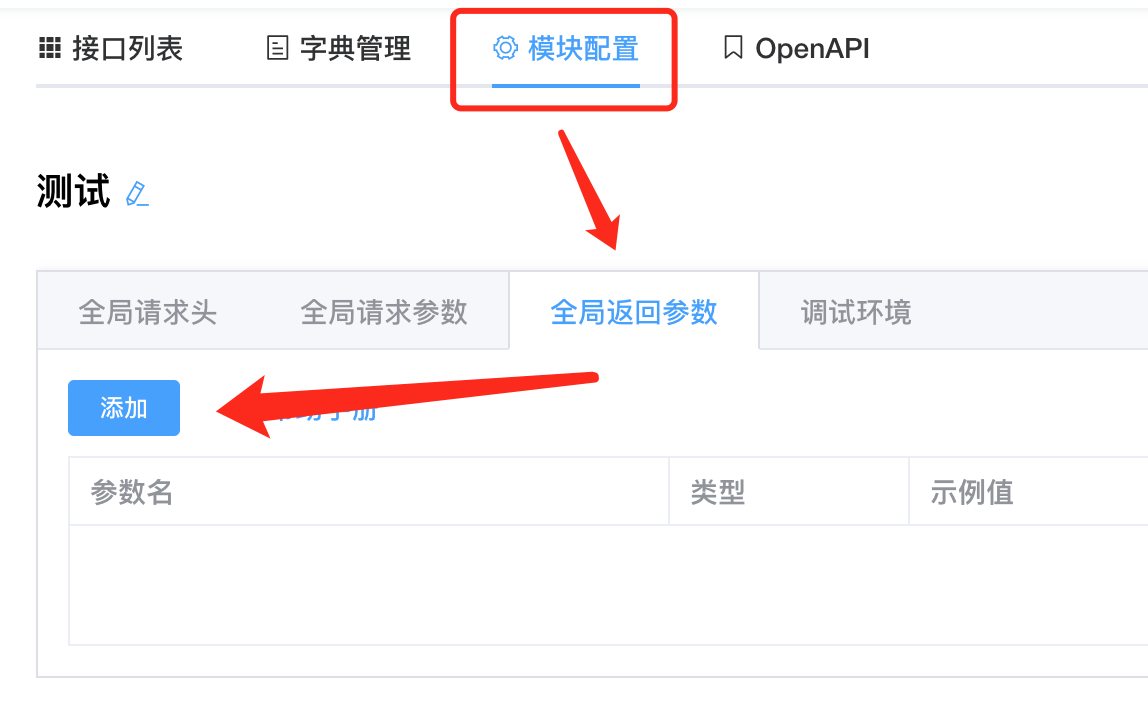
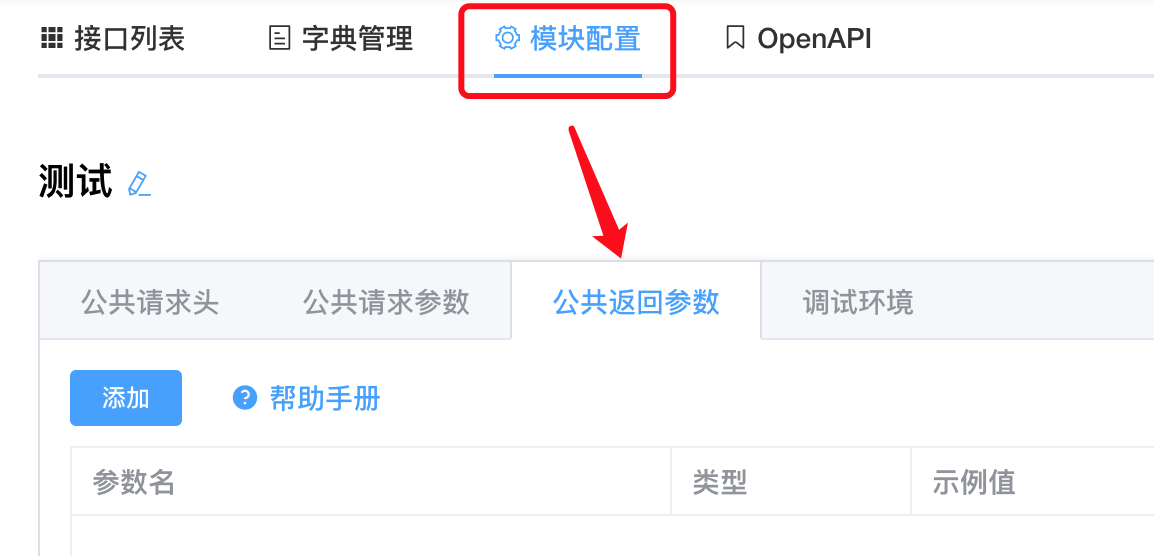
优化文字显示

diff --git a/front/src/views/doc/edit/index.vue b/front/src/views/doc/edit/index.vue
@@ -71,7 +71,7 @@
         <span class="split">|</span>
         <el-switch
           v-model="docInfo.isUseGlobalHeaders"
-          active-text="使用全局请求头"
+          active-text="使用公共请求头"
           inactive-text=""
           :active-value="1"
           :inactive-value="0"
@@ -89,7 +89,7 @@
         <span class="split">|</span>
         <el-switch
           v-model="docInfo.isUseGlobalParams"
-          active-text="使用全局请求参数"
+          active-text="使用公共请求参数"
           inactive-text=""
           :active-value="1"
           :inactive-value="0"
@@ -102,7 +102,7 @@
         <span class="split">|</span>
         <el-switch
           v-model="docInfo.isUseGlobalReturns"
-          active-text="使用全局响应参数"
+          active-text="使用公共返回参数"
           inactive-text=""
           :active-value="1"
           :inactive-value="0"

diff --git a/front/src/views/project/ModuleSetting/index.vue b/front/src/views/project/ModuleSetting/index.vue
@@ -13,13 +13,13 @@
       </div>
     </h3>
     <el-tabs v-model="activeName" type="border-card" @tab-click="onTabClick">
-      <el-tab-pane label="全局请求头" name="globalHeaders">
+      <el-tab-pane label="公共请求头" name="globalHeaders">
         <global-headers ref="globalHeaders" />
       </el-tab-pane>
-      <el-tab-pane label="全局请求参数" name="globalParams">
+      <el-tab-pane label="公共请求参数" name="globalParams">
         <global-params ref="globalParams" />
       </el-tab-pane>
-      <el-tab-pane label="全局返回参数" name="globalReturns">
+      <el-tab-pane label="公共返回参数" name="globalReturns">
         <global-returns ref="globalReturns" />
       </el-tab-pane>
       <el-tab-pane label="调试环境" name="debugEnv">

diff --git a/front/src/utils/common.js b/front/src/utils/common.js
@@ -94,7 +94,7 @@ export function init_docInfo_view(data) {
   if (data.isUseGlobalParams) {
     data.requestParams = data.globalParams.concat(data.requestParams)
   }
-  // 如果使用全局返回参数
+  // 如果使用公共返回参数
   if (data.isUseGlobalReturns) {
     const dataNode = data.globalReturns
       .filter(row => row.example === DATA_PLACEHOLDER)

diff --git a/front/public/static/help/global.md b/front/public/static/help/global.md
@@ -1,16 +1,16 @@
-# 全局参数
+# 公共参数
 
-全局参数，也叫公共参数，分为`全局请求参数`和`全局返回参数`
+分为`公共请求参数`和`公共返回参数`
 
-## 全局请求参数
+## 公共请求参数
 
-设置了全局请求参数，每个接口请求都要带上这个参数，设置方式：前往`模块配置` -> `全局请求参数`进行配置
+设置了公共请求参数，每个接口请求都要带上这个参数，设置方式：前往`模块配置` -> `公共请求参数`进行配置
 
-然后文档浏览页，请求参数列表中都会出现配置的全局请求参数。
+然后文档浏览页，请求参数列表中都会出现配置的公共请求参数。
 
-## 全局返回参数
+## 公共返回参数
 
-全局返回参数配置方式同全局请求参数一样，只不过这里多了数据节点。
+公共返回参数配置方式同公共请求参数一样，只不过这里多了数据节点。
 
 - 为何要数据节点？
 
@@ -24,7 +24,7 @@
 }
 ```
 
-其中，code, msg, data部分属于全局返回参数，`{...}`属于业务参数。
+其中，code, msg, data部分属于公共返回参数，`{...}`属于业务参数。
 
 假设controller只返回业务结果
 
@@ -37,9 +37,9 @@ public List<User> findAll(){
 
 这样只能定义业务返回参数，外层的全局参数很难定义（当然也有解决办法）。
 
-在这种情况下，可以配置全局返回参数，然后指定数据节点，具体操作方式如下：
+在这种情况下，可以配置公共返回参数，然后指定数据节点，具体操作方式如下：
 
-前往`模块配置` -> `全局返回参数`，点击`添加`
+前往`模块配置` -> `公共返回参数`，点击`添加`
 
 <img src="/static/help/images/global1.png" style="height: 300px" />
 
@@ -63,10 +63,10 @@ public List<User> findAll(){
 
 ## 不使用全局参数
 
-如果指定了全局参数（`全局请求头/全局请求参数/全局返回参数`）默认情况下每个接口都会使用，但是有些特殊接口又不需要使用。
+如果指定了全局参数（`公共请求头/公共请求参数/公共返回参数`）默认情况下每个接口都会使用，但是有些特殊接口又不需要使用。
 
-前往文档编辑页面进行设置，以`全局请求参数`为例，进入文档编辑页面，取消勾选`使用全局请求参数`，这样该文档就不会使用`全局请求参数`。
+前往文档编辑页面进行设置，以`公共请求参数`为例，进入文档编辑页面，取消勾选`使用公共请求参数`，这样该文档就不会使用`公共请求参数`。
 
 <img src="/static/help/images/global6.png" style="height: 350px" />
 
-`全局header`和`全局返回参数`设置方式与此类似。
+`公共请求头`和`公共返回参数`设置方式与此类似。
